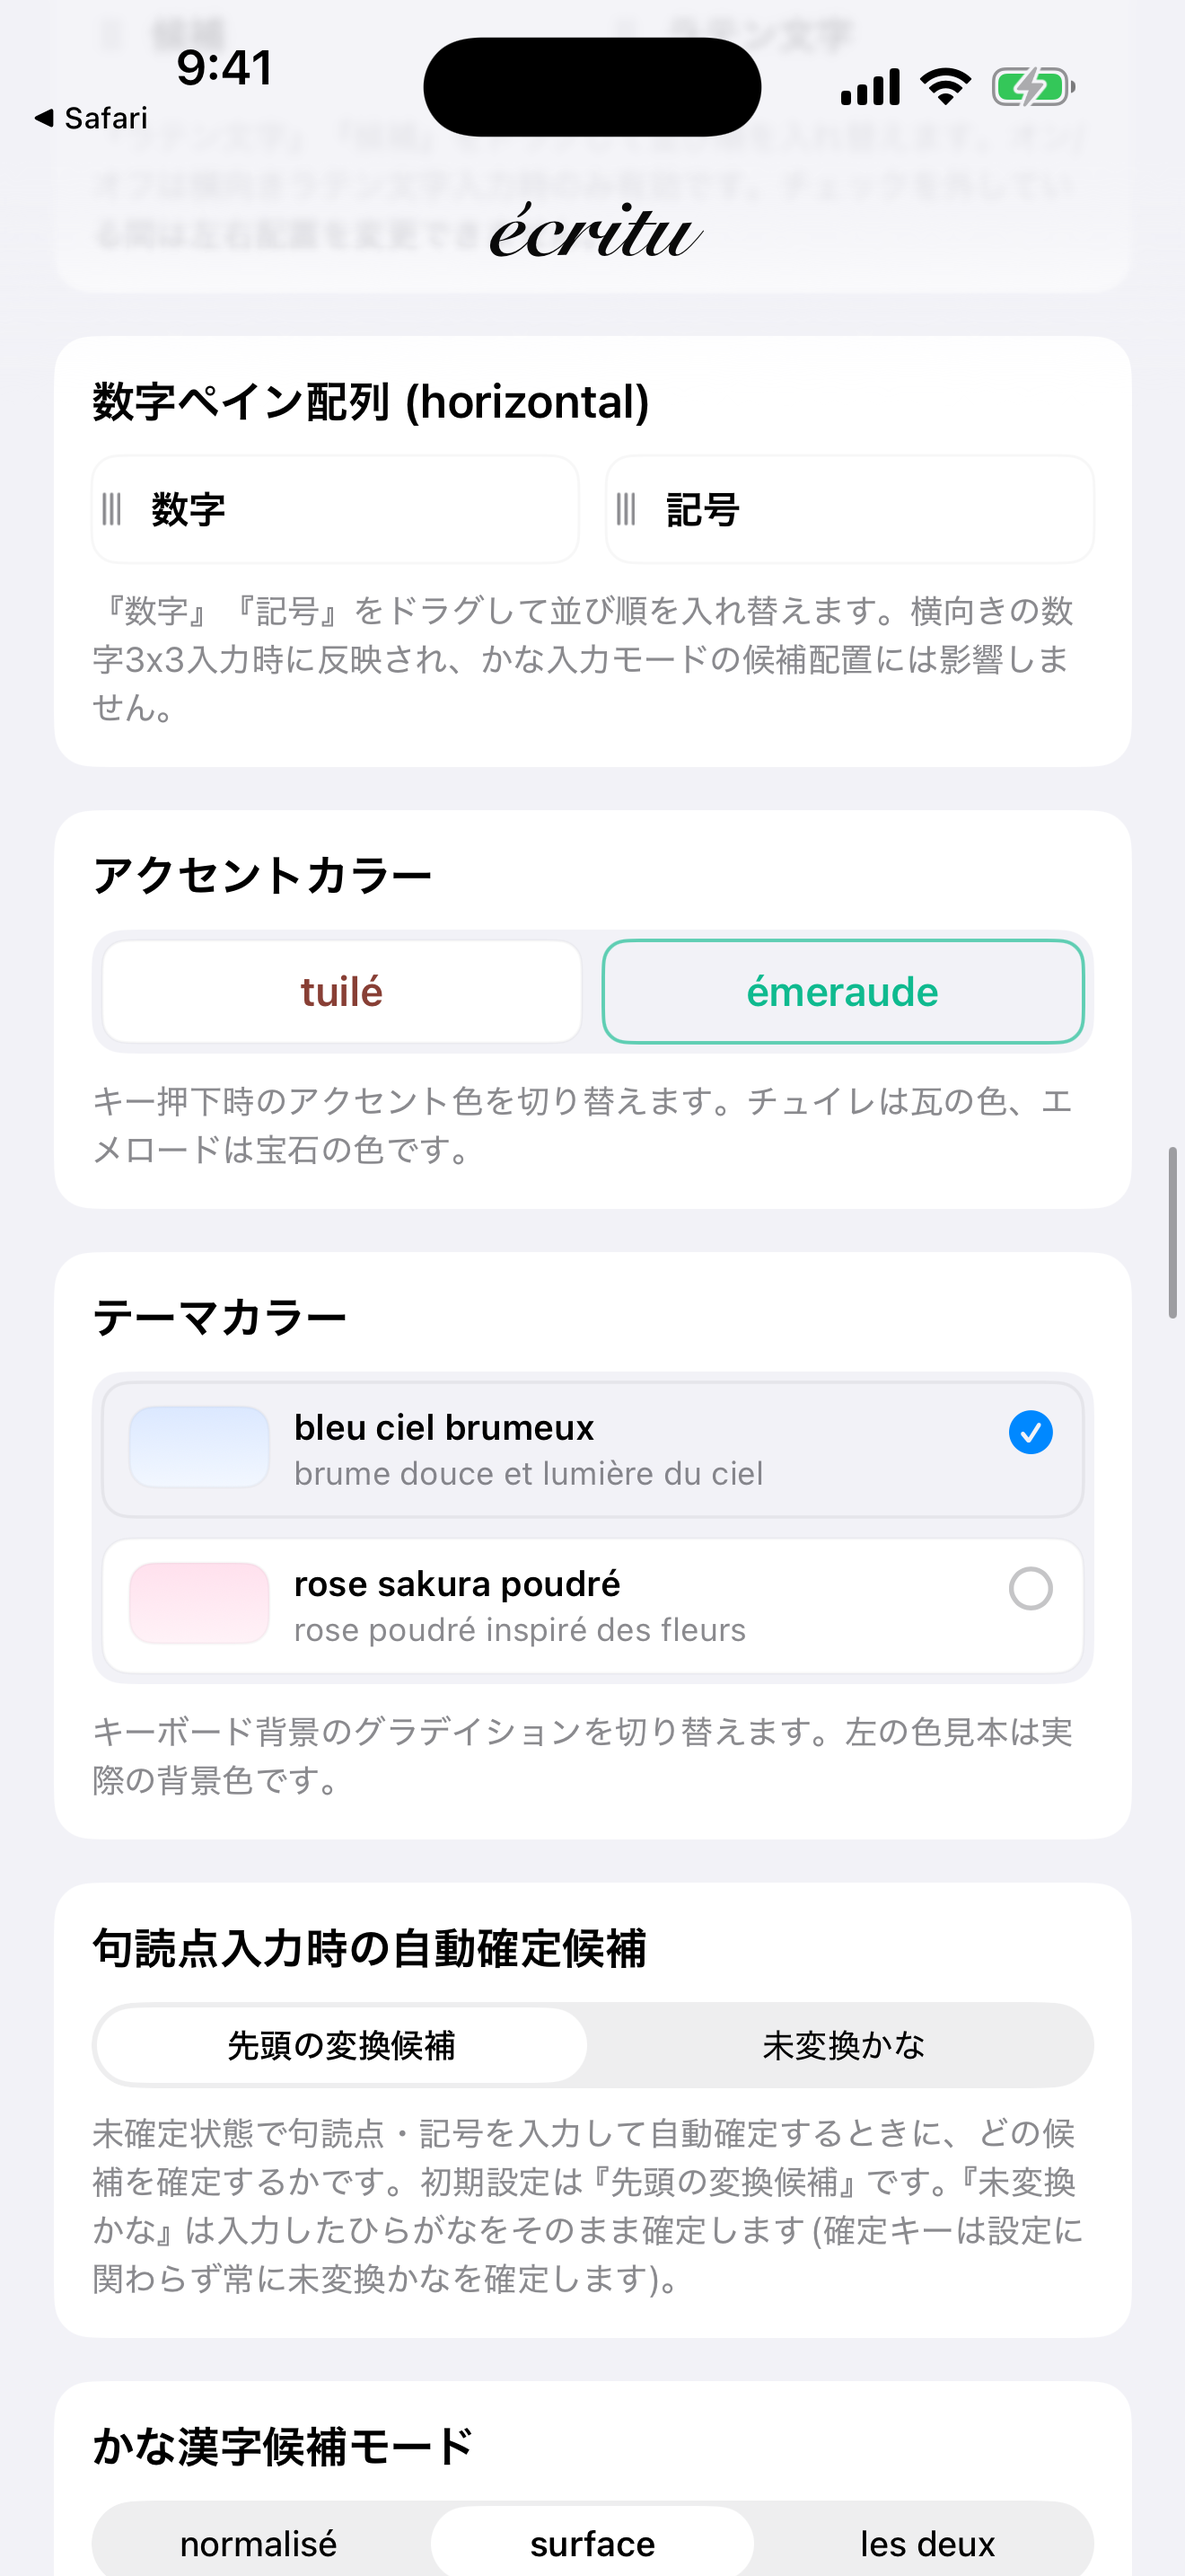
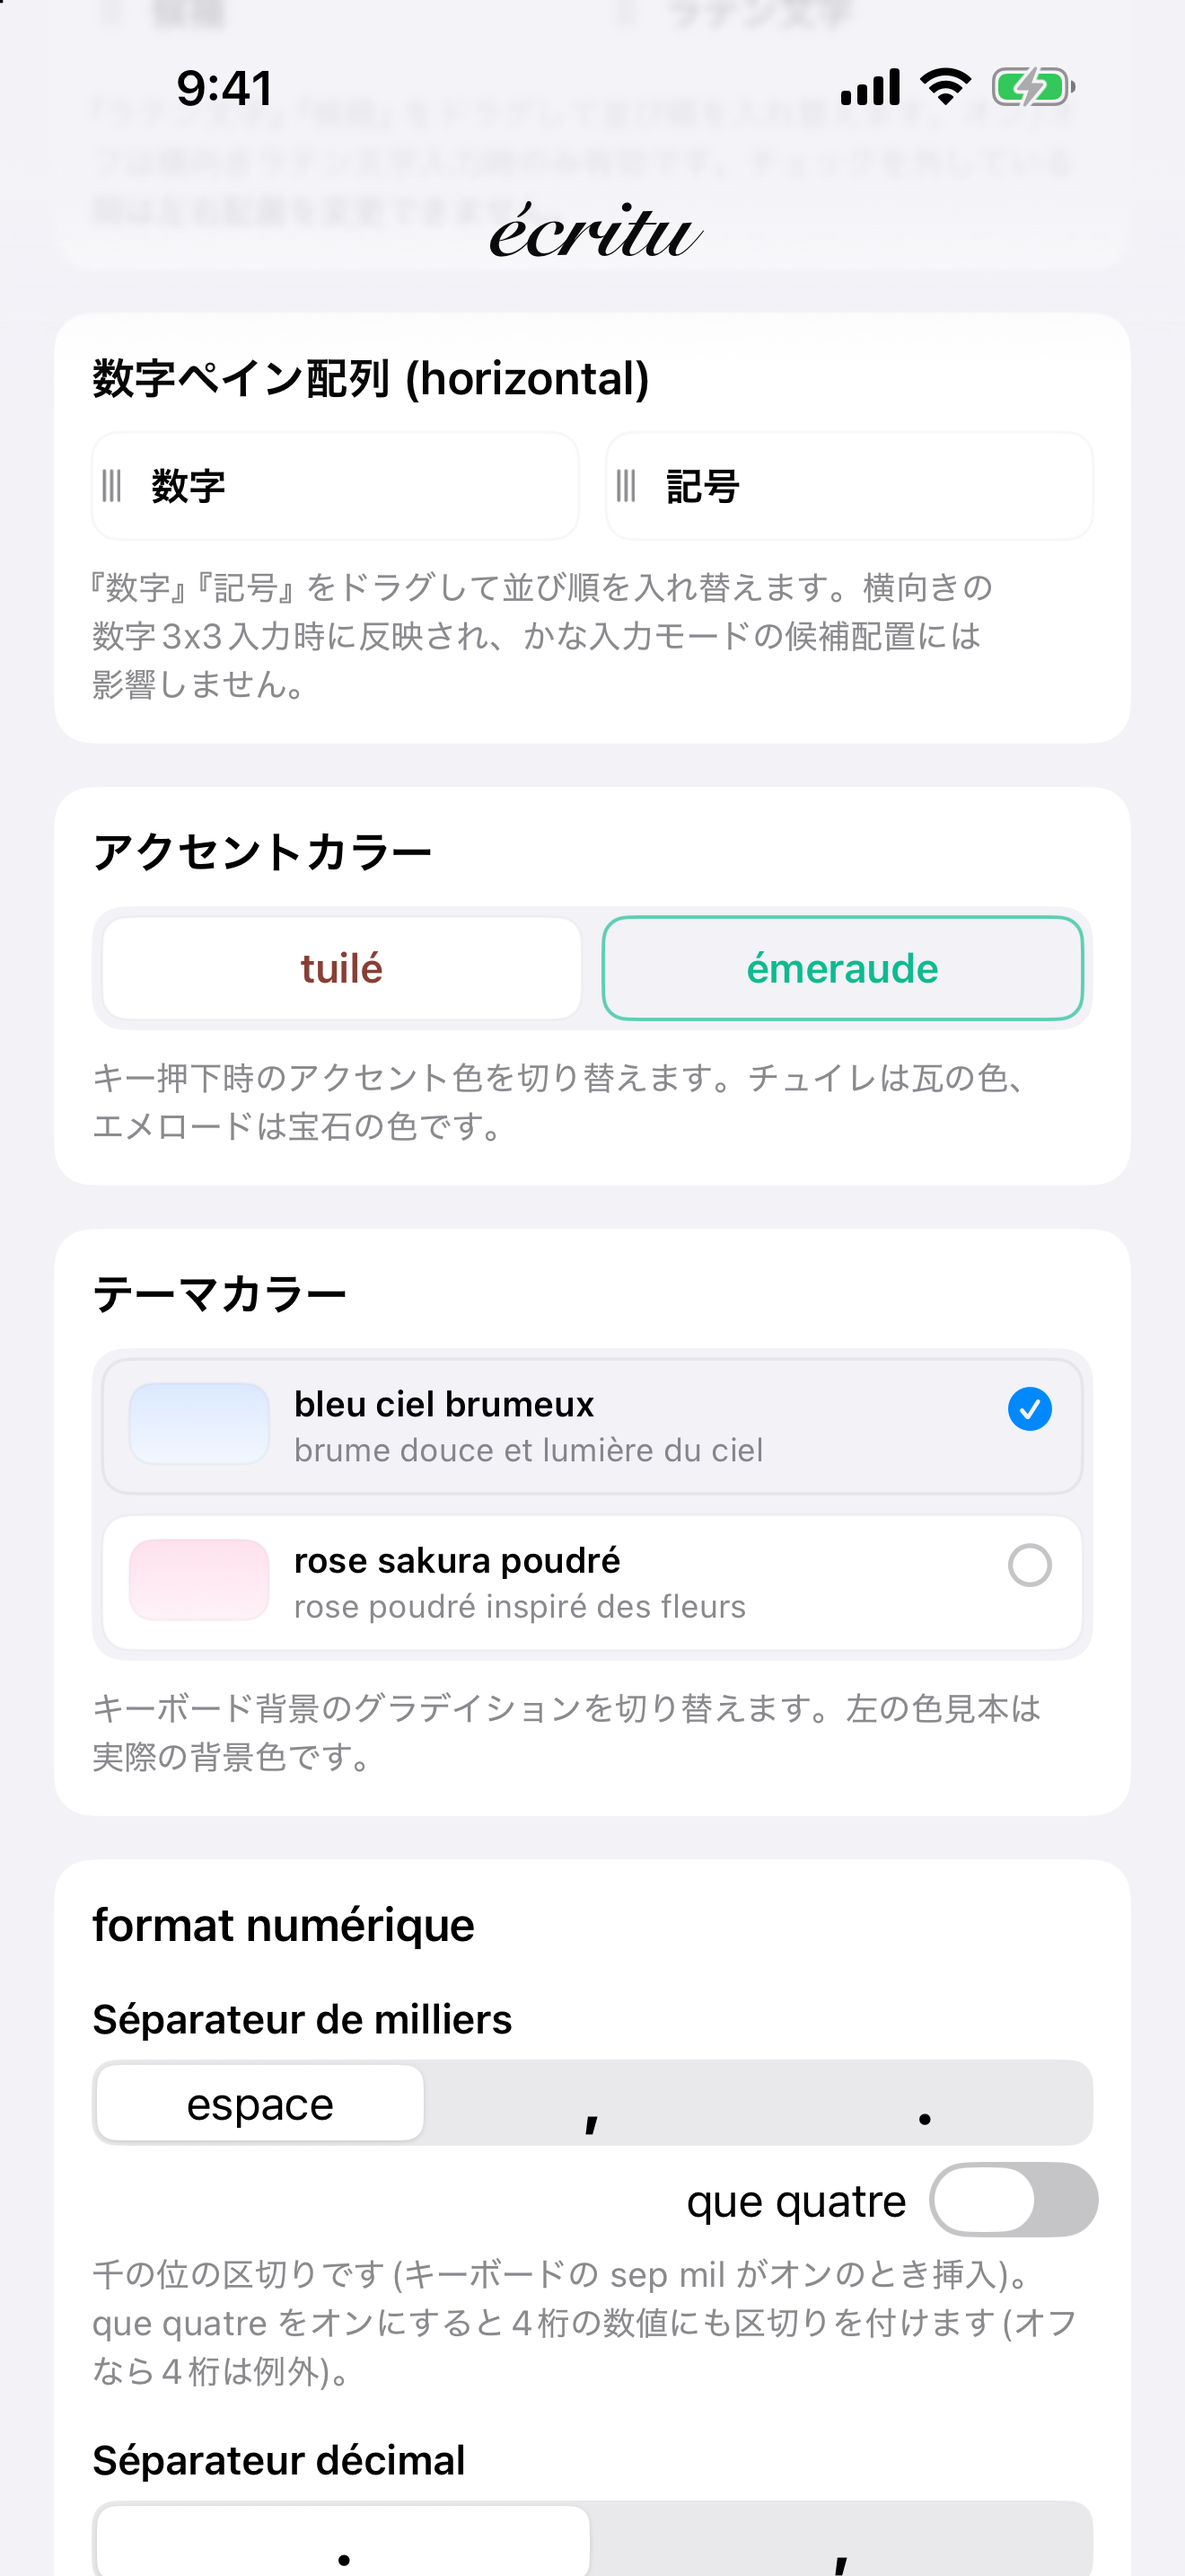
other(appstore): メタデータを検証・更新(フリック方向の呼称 hanabi/littlebear/écritu、キーワードから アプリ名重複の キーボード を外す、カテゴリー・著作権を追記)、06 の設定画面を撮り直し(◀ Safari 無し)

diff --git a/appstore/metadata.md b/appstore/metadata.md
@@ -1,6 +1,6 @@
 # App Store 提出用メタデータ(écritu)
 
-作成: 2026-09-01。文字数制限を検証済み。ASCの入力欄にそのまま貼り付け可。
+作成: 2026-09-01、検証 2026-09-19(フリック方向の呼称・キーワード・カテゴリー・著作権を更新)。文字数制限を検証済み。ASCの入力欄にそのまま貼り付け可。
 
 ## アプリ名(30字以内)
 
@@ -14,9 +14,9 @@
 
 「?」「。」「〜」「…」括弧まで、かなのまま打てる日本語フリックキーボード。通信は一切なし — 入力内容が端末の外に出ることはありません。連文節変換、絵文字・顔文字・記号パネル、単位や日付の入力補助まで、この1枚に。
 
-## キーワード(100字以内・現在63字)
+## キーワード(100字以内・現在71字)
 
-キーボード,日本語入力,フリック,かな,IME,変換,絵文字,顔文字,記号,オフライン,プライバシー,辞書,旧仮名,部首,単位
+エクリチュ,日本語入力,フリック,かな,IME,連文節,変換,絵文字,顔文字,記号,オフライン,辞書,旧仮名,部首,単位,フランス語
 
 ## 説明文(4000字以内)
 
@@ -41,9 +41,18 @@
 英語・フランス語・ドイツ語・イタリア語の入力補完を搭載(オフライン辞書)。アクセント付き文字も長押しで。メールアドレスやURLの欄では自動的に英字配列で開きます。
 
 ■ 細かな設定
-かな配列(5×2 / 3×3+わ)、フリック方向(style écritu / style iPhone)、英字配列(QWERTY / AZERTY / 3×3)、テーマとアクセントカラー、フリックガイドの表示方法など、細部まで好みに合わせられます。
+かな配列(5×2 / 3×3+わ)、フリック方向(hanabi / littlebear / écritu)、英字配列(QWERTY / AZERTY / 3×3)、テーマとアクセントカラー、フリックガイドの表示方法など、細部まで好みに合わせられます。
 
 操作方法の詳しい説明は、操作マニュアル(全9章。アプリのアイコンを長押ししたメニューから Safari で開けます)をご覧ください。
+
+## カテゴリー
+
+- プライマリ: ユーティリティ
+- セカンダリ(任意): 仕事効率化
+
+## 著作権
+
+© 2026 Kusakabe Youichi
 
 ## What's New(初回)
 
